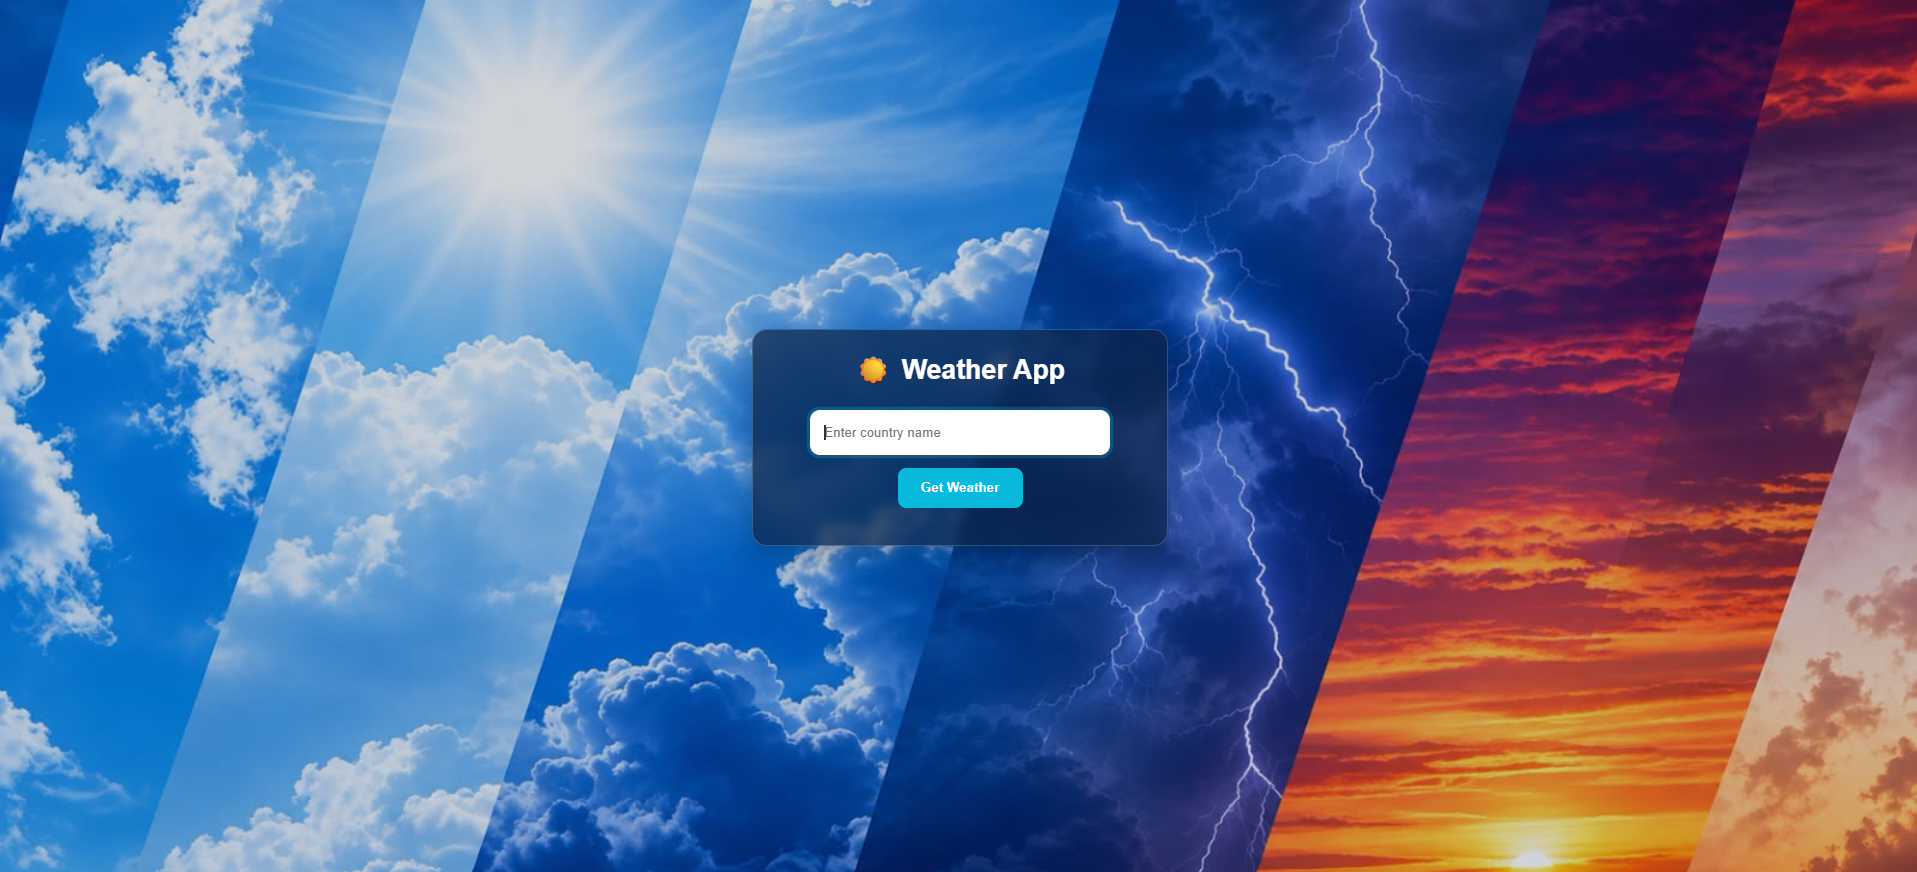
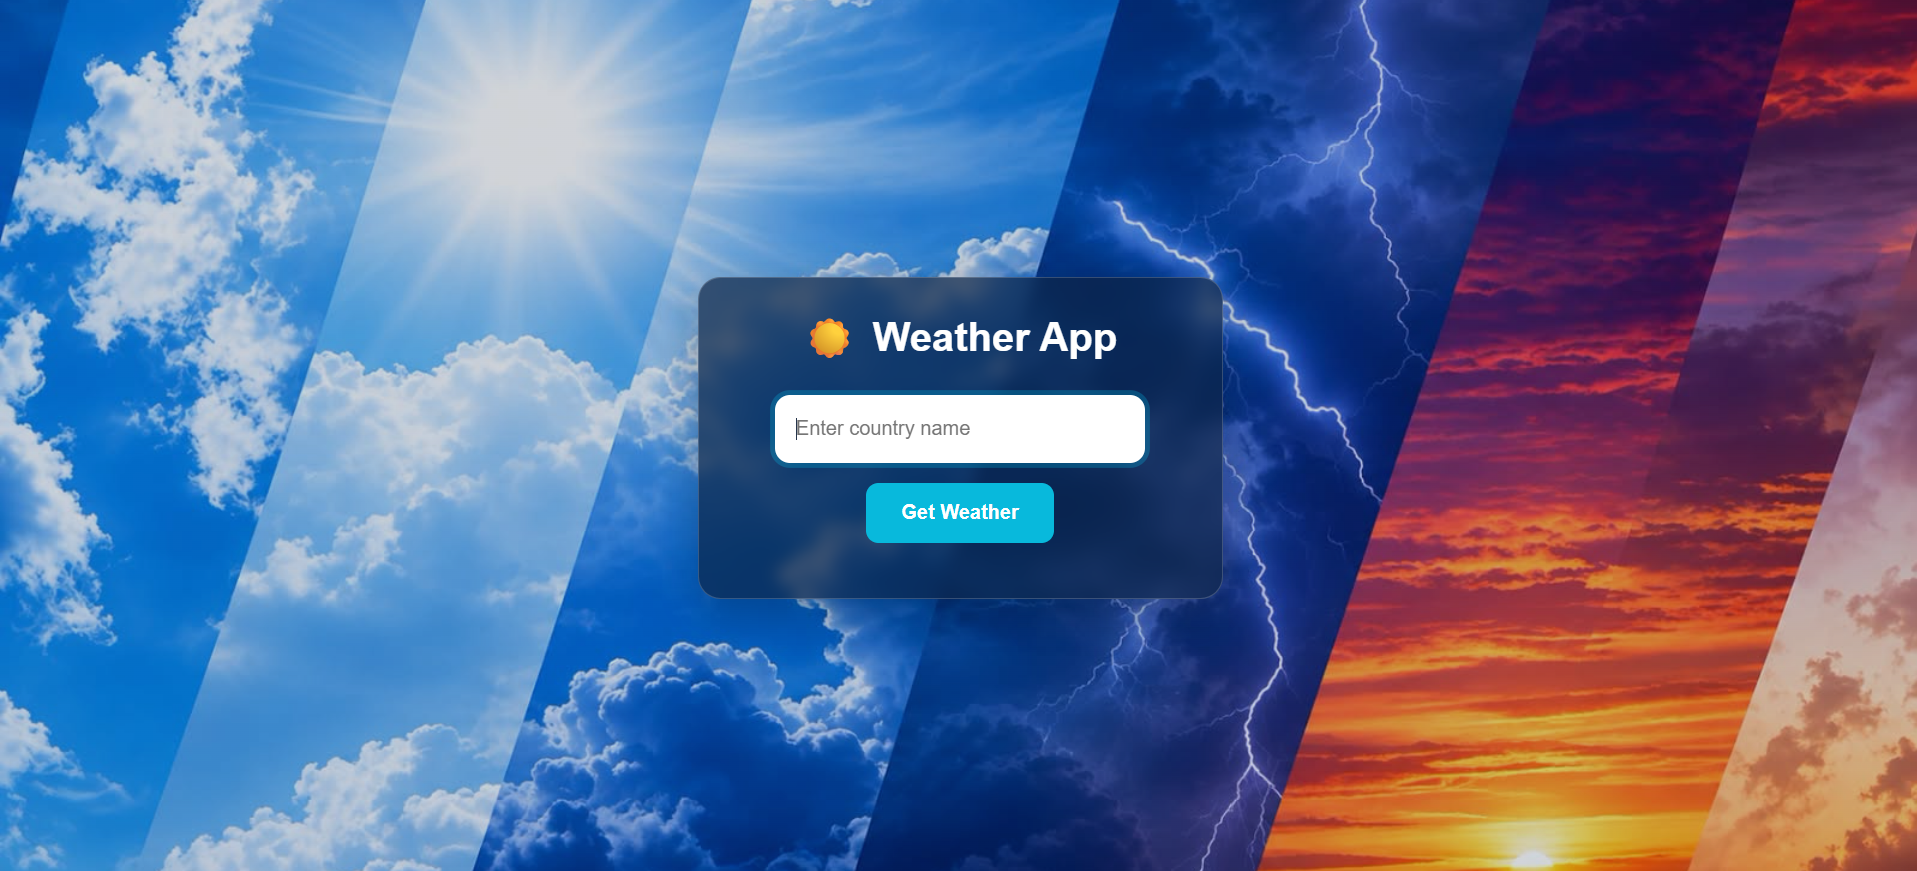
Update README with new screenshots and descriptions

Changed region(s): [[0.3385, 0.31, 0.6463, 0.713], [0.7387, 0.992, 0.831, 1.0], [0.6463, 0.992, 0.7079, 1.0]]

diff --git a/README.md b/README.md
@@ -6,18 +6,23 @@ Built with **Node.js**, **Express**, and **Handlebars**. It uses the **Mapbox Ge
 
 ## Screenshots
 
-### Home
-The landing page, with a search box where the user types a country or city name and a **Get Weather** button.
+### 1. Home
+The landing page. The user types a country or city name in the search box and clicks **Get Weather**.
 
 ![Home page](./screenshots/1.png)
 
-### Weather Result
-After searching (for example, "Egypt"), the app shows the country name, latitude, longitude, and the current temperature in °C. While the data is loading, the button shows "Loading..." and is disabled to prevent duplicate requests.
+### 2. Loading State
+After clicking the button, it changes to "Loading..." and is disabled while the data is being fetched. This gives the user feedback and prevents sending duplicate requests.
+
+![Loading state](./screenshots/loading.png)
+
+### 3. Weather Result
+Once the data arrives, the app shows the country name, latitude, longitude, and the current temperature in °C inside separate info cards.
 
 ![Weather result](./screenshots/2.png)
 
-### Error Handling
-If the location can't be found or the request fails, a clear error message is shown under the form instead of breaking the page. In this example, a meaningless search returns "Unable to find location. Try another search".
+### 4. Error Handling
+If the location can't be found or the request fails, a clear message is shown under the form instead of breaking the page. Here, a meaningless search returns "Unable to find location. Try another search".
 
 ![Error message](./screenshots/3.png)
 
@@ -26,7 +31,7 @@ If the location can't be found or the request fails, a clear error message is sh
 - Search by country or city name
 - Displays country, latitude, longitude, and current temperature (°C)
 - Friendly error messages for invalid locations or API failures
-- Loading state on the button while fetching data
+- Loading indicator and disabled button while the request is in progress
 - Clean glassmorphism UI with a responsive layout
 - API keys stored securely in environment variables
 
@@ -103,7 +108,7 @@ GET /weather?address=<country or city name>
   "country": "Egypt",
   "latitude": 26.4942,
   "longitude": 29.8719,
-  "temperature": 27.4
+  "temperature": 30.3
 }
 ```
 
